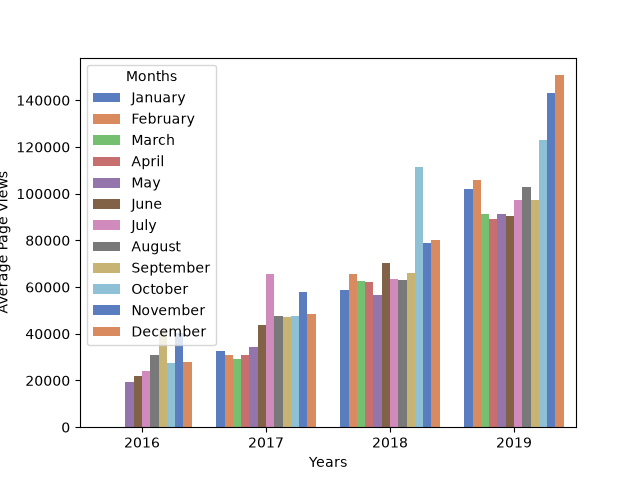
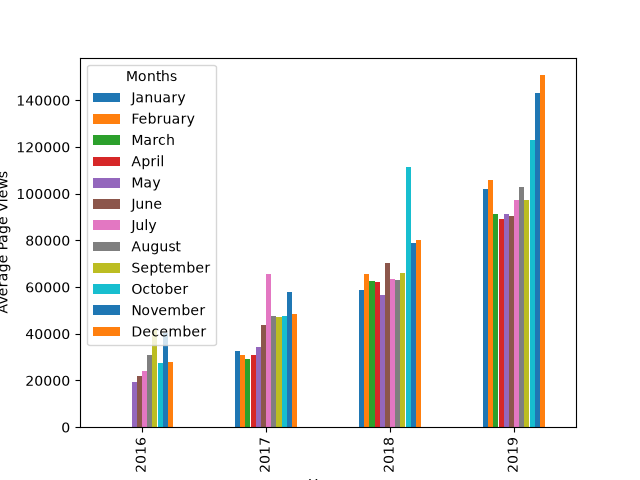
best solution but there a problem in testing so I will change some things that not the best

diff --git a/time_series_visualizer.py b/time_series_visualizer.py
@@ -6,17 +6,20 @@ import calendar
 register_matplotlib_converters()
 
 # Import data (Make sure to parse dates. Consider setting index column to 'date'.)
-df = pd.read_csv('fcc-forum-pageviews.csv', parse_dates=['date'], index_col='date')
+df = pd.read_csv('fcc-forum-pageviews.csv', parse_dates=['date'], index_col='date')['value']
+real_df = pd.read_csv('fcc-forum-pageviews.csv', parse_dates=['date'], index_col='date')
 
 # Clean data
 # print(df[(df['value'] <= df['value'].quantile(0.025)) | (df['value'] >= df['value'].quantile(0.975))])
-df = df[(df['value'] >= df['value'].quantile(0.025)) & (df['value'] <= df['value'].quantile(0.975))]
+real_df = real_df[(real_df['value'] >= real_df['value'].quantile(0.025)) &
+        (real_df['value'] <= real_df['value'].quantile(0.975))
+        ]
 
 
 def draw_line_plot():
     # Draw line plot
     fig , ax = plt.subplots(figsize=(20,5))
-    ax.plot( df)
+    ax.plot( real_df)
     ax.set_title('Daily freeCodeCamp Forum Page Views 5/2016-12/2019')
     ax.set_xlabel('Date')
     ax.set_ylabel('Page Views')
@@ -29,56 +32,45 @@ def draw_line_plot():
     return fig
 
 def draw_bar_plot():
+    #####################
+    '''
+    كان ثم مشكلة في تصحيح الاختبار رسم الأعمدة إذ يطلب أن يكون عدد الأعمدة 49 وهي عندي 57 والمشكلة هنا أن بداية الجدول من شهر مايو وأنا لما رسمت بالمكتبة المتطورة جعلت هي للأشهر التي قبل ذلك أعمدة فارغة لم أرها على الرسم ورآه المصحح الآلي وتصحيح ذلك أن أستعمل مكتبة التحليل نفسها في الرسم وحساب ذلك أن الأشهر 44 وأن في دليل الرسم الذي يوضح اللون المعطى لكل رسم 4 ومربع أبيض هو خلفية الرسم كله
+
+    مكتبة التحليل pandas
+    المكتبة المتطورة sns
+    دليل الرسم legend
+    '''
+    ###############
     # Copy and modify data for monthly bar plot
-    df_copy = df.copy()
-    df_copy['Years'] = pd.DatetimeIndex(df_copy.index).year
-    df_copy['Months'] = pd.DatetimeIndex(df_copy.index).month
-    df_bar = df_copy.groupby(['Years', 'Months']).mean()
-    # print(df_bar.info())
+    df_bar = real_df.copy()
+    df_bar['Years'] = pd.DatetimeIndex(df_bar.index).year
+    df_bar['Months'] = pd.DatetimeIndex(df_bar.index).month_name()
+
+    df_grouped = df_bar.groupby(['Years', 'Months']).mean().unstack()
+
+    # ترتيب الشهور 
+    months_ordered = calendar.month_name[1:]
+    df_grouped.columns = (df_grouped.columns.droplevel())
+    df_grouped = df_grouped[months_ordered]
+
+
+    '''
+    .unstack()
+    هذه الدالة تحول العمود الأخير في الفهرس (وليس في الجدول فانتبه) إلى صف والغرض من ذلك إعداد الجدول ليناسب الرسم بدالة مكتبة التحليل إذ تطلب المكتبة أن يكون الجدول ثاني الأبعاد فتكون صفوف الجدول للمحور الأفقي ويفرق كل مستطيل على اللون حسب أعمدة الجدول المعطى
+    مكتبة التحليل pandas
+
+    '''
     # Draw bar plot
-    fig, ax = plt.subplots()
-    # palette = sns.color_palette("Set3", 10)
-    # طرق لجعل الأشهر بالأسماء لا الأرقام
-    # تغيير عمود الشهور من الأرقام إلى الأسماء بطريقين
-        # DatetimeIndex
 
-    df_copy['Months'] = pd.DatetimeIndex(df_copy.index).month_name()
-    df_bar = df_copy.groupby(['Years', 'Months']).mean()
-    # print(df_copy)
-    ax1= sns.barplot(df_bar, x='Years', y='value', hue='Months',hue_order=list(calendar.month_name[1:]) ,ax=ax, palette='muted')
+    fig = df_grouped.plot(kind='bar').get_figure()
     plt.ylabel("Average Page Views")
-    # num_bars = len(ax1.containers[0])
-    # print(f"Number of bars: {num_bars}")
 
-        # mapping
-
-
-    # تعديل label of legend
-    '''
-    ax = sns.barplot(df_bar, x='Years', y='value', hue='Months', palette='bright')
-    print(df_bar)
-    ax.set_ylabel('Average Page Views')
-    # ax.legend(list(calendar.month_name)[1:])
-    handles, lables = ax.get_legend_handles_labels()
-    title = ax.get_legend().get_title().get_text()
-    # print('_'*20, title)
-    new_labels = list(calendar.month_name)[1:]
-    plt.legend(
-        handles=handles, 
-        title=title, 
-        labels=new_labels
-    )
-
-    # حل رابع محتمل
-    # هل يمكن إعطاء هذه الخاصية شيئا ليس في العمود المعطى لأمها  hue_order
-    # أمها: hue
-    '''
     # Save image and return fig (don't change this part)
     fig.savefig('bar_plot.png')
     return fig
 def draw_box_plot():
     # Prepare data for box plots (this part is done!)
-    df_box = df.copy()
+    df_box = real_df.copy()
     df_box.reset_index(inplace=True)
     # print(df_box) # أعاد فهرسة السطور مع حفظ الفهرس القديمة
     # print(df_box.info())

diff --git a/test_module.py b/test_module.py
@@ -4,7 +4,7 @@ import matplotlib as mpl
 
 class DataCleaningTestCase(unittest.TestCase):
     def test_data_cleaning(self):
-        actual = int(time_series_visualizer.df.count(numeric_only=True))
+        actual = int(time_series_visualizer.real_df.count(numeric_only=True))
         expected = 1238
         self.assertEqual(actual, expected, "Expected DataFrame count after cleaning to be 1238.")
 
